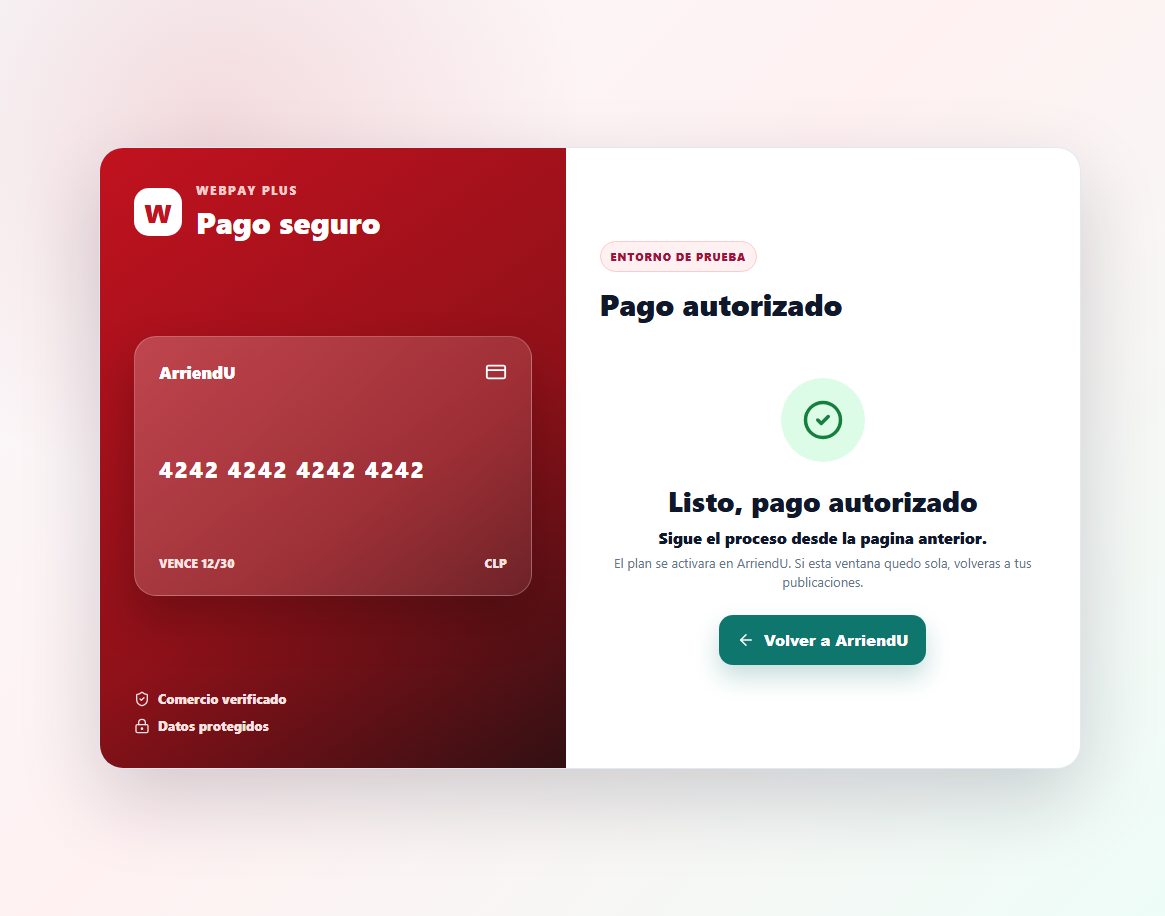
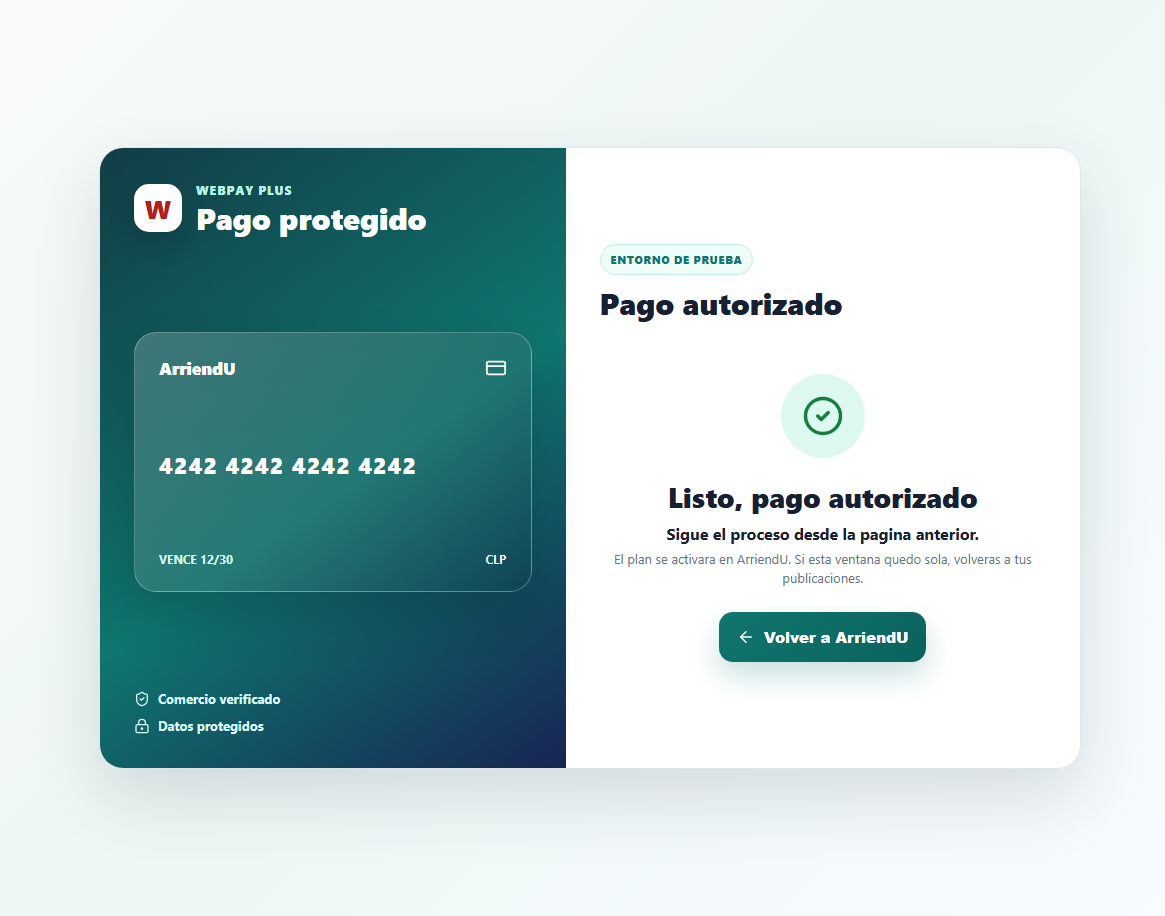
style: mejora diseño de webpay

diff --git a/frontend/src/pages/WebpaySimulado.jsx b/frontend/src/pages/WebpaySimulado.jsx
@@ -130,7 +130,7 @@ const WebpaySimulado = () => {
             <div style={styles.logoMark}>W</div>
             <div>
               <p style={styles.kicker}>WebPay Plus</p>
-              <h1 style={styles.title}>Pago seguro</h1>
+              <h1 style={styles.title}>Pago protegido</h1>
             </div>
           </div>
 
@@ -259,30 +259,30 @@ const WebpaySimulado = () => {
 const styles = {
   page: {
     minHeight: '100vh',
-    background: 'radial-gradient(circle at 18% 14%, rgba(193,18,31,0.12), transparent 30%), linear-gradient(135deg, #f8fafc 0%, #fff1f2 46%, #eefdf8 100%)',
+    background: 'linear-gradient(135deg, #f7faf9 0%, #eef7f5 48%, #f8fbff 100%)',
     display: 'flex',
     alignItems: 'center',
     justifyContent: 'center',
     padding: '28px',
-    fontFamily: "'Segoe UI', Roboto, sans-serif",
-    color: '#0f172a',
+    fontFamily: "'Inter', 'Aptos', 'Segoe UI', system-ui, -apple-system, sans-serif",
+    color: '#172033',
   },
   shell: {
     width: 'min(980px, 100%)',
     minHeight: '620px',
     display: 'grid',
     gridTemplateColumns: '0.95fr 1.05fr',
-    background: '#ffffff',
-    border: '1px solid #e2e8f0',
+    background: 'rgba(255,255,255,0.98)',
+    border: '1px solid #dbe7ea',
     borderRadius: '24px',
-    boxShadow: '0 30px 80px rgba(15, 23, 42, 0.18)',
+    boxShadow: '0 28px 70px rgba(29, 45, 57, 0.14)',
     overflow: 'hidden',
   },
   brandPanel: {
     position: 'relative',
     padding: '34px',
     color: '#ffffff',
-    background: 'linear-gradient(145deg, #c1121f 0%, #8f1119 58%, #321013 100%)',
+    background: 'linear-gradient(145deg, #123c46 0%, #0f766e 54%, #172554 100%)',
     display: 'flex',
     flexDirection: 'column',
     justifyContent: 'space-between',
@@ -298,25 +298,27 @@ const styles = {
     height: '48px',
     borderRadius: '15px',
     background: '#ffffff',
-    color: '#c1121f',
+    color: '#b91c1c',
     display: 'flex',
     alignItems: 'center',
     justifyContent: 'center',
-    fontSize: '26px',
-    fontWeight: 900,
+    fontSize: '25px',
+    fontWeight: 800,
+    boxShadow: '0 12px 26px rgba(7, 20, 26, 0.18)',
   },
   kicker: {
     margin: '0 0 4px',
-    color: '#fecaca',
+    color: '#b7f4e8',
     fontSize: '12px',
-    fontWeight: 900,
+    fontWeight: 800,
     textTransform: 'uppercase',
-    letterSpacing: '0.12em',
+    letterSpacing: '0.08em',
   },
   title: {
     margin: 0,
     fontSize: '30px',
-    fontWeight: 900,
+    fontWeight: 800,
+    lineHeight: 1.08,
   },
   previewCard: {
     position: 'relative',
@@ -324,9 +326,9 @@ const styles = {
     borderRadius: '22px',
     padding: '24px',
     minHeight: '210px',
-    background: 'linear-gradient(135deg, rgba(255,255,255,0.22), rgba(255,255,255,0.08))',
-    border: '1px solid rgba(255,255,255,0.24)',
-    boxShadow: '0 24px 46px rgba(22, 6, 8, 0.28)',
+    background: 'linear-gradient(135deg, rgba(255,255,255,0.2), rgba(5, 45, 52, 0.22))',
+    border: '1px solid rgba(255,255,255,0.28)',
+    boxShadow: '0 24px 46px rgba(7, 29, 37, 0.24)',
     display: 'flex',
     flexDirection: 'column',
     justifyContent: 'space-between',
@@ -335,21 +337,21 @@ const styles = {
     display: 'flex',
     justifyContent: 'space-between',
     alignItems: 'center',
-    fontWeight: 900,
+    fontWeight: 800,
     fontSize: '17px',
   },
   cardNumber: {
     margin: 0,
     fontSize: '22px',
-    fontWeight: 900,
-    letterSpacing: '0.08em',
+    fontWeight: 800,
+    letterSpacing: '0.06em',
   },
   cardBottom: {
     display: 'flex',
     justifyContent: 'space-between',
-    color: '#fee2e2',
+    color: '#d7fbf4',
     fontSize: '12px',
-    fontWeight: 800,
+    fontWeight: 700,
     textTransform: 'uppercase',
   },
   trustList: {
@@ -360,9 +362,9 @@ const styles = {
     display: 'inline-flex',
     alignItems: 'center',
     gap: '8px',
-    color: '#fee2e2',
+    color: '#d7fbf4',
     fontSize: '13px',
-    fontWeight: 800,
+    fontWeight: 700,
   },
   checkoutPanel: {
     padding: '34px',
@@ -380,36 +382,37 @@ const styles = {
   secureBadge: {
     display: 'inline-flex',
     width: 'fit-content',
-    border: '1px solid #fecaca',
-    background: '#fff1f2',
+    border: '1px solid #bdeee4',
+    background: '#eefdf8',
     borderRadius: '999px',
     padding: '7px 10px',
-    color: '#9f1239',
+    color: '#0f766e',
     fontSize: '11px',
-    fontWeight: 900,
+    fontWeight: 800,
     textTransform: 'uppercase',
-    letterSpacing: '0.08em',
+    letterSpacing: '0.06em',
     whiteSpace: 'nowrap',
   },
   checkoutTitle: {
     margin: '12px 0 0',
-    color: '#0f172a',
+    color: '#172033',
     fontSize: '30px',
-    fontWeight: 900,
+    fontWeight: 800,
+    lineHeight: 1.12,
   },
   summaryBox: {
-    border: '1px solid #e2e8f0',
+    border: '1px solid #dde8eb',
     borderRadius: '18px',
     padding: '8px 18px',
-    background: '#f8fafc',
+    background: '#f8fbfc',
   },
   summaryRow: {
     display: 'flex',
     justifyContent: 'space-between',
     gap: '14px',
     padding: '12px 0',
-    borderBottom: '1px solid #e2e8f0',
-    color: '#475569',
+    borderBottom: '1px solid #e3ebee',
+    color: '#566477',
     fontSize: '14px',
   },
   totalRow: {
@@ -417,9 +420,9 @@ const styles = {
     justifyContent: 'space-between',
     gap: '14px',
     padding: '15px 0 10px',
-    color: '#0f172a',
+    color: '#172033',
     fontSize: '15px',
-    fontWeight: 900,
+    fontWeight: 800,
   },
   formBox: {
     display: 'flex',
@@ -437,19 +440,19 @@ const styles = {
     gap: '6px',
   },
   label: {
-    color: '#475569',
+    color: '#566477',
     fontSize: '11px',
-    fontWeight: 900,
+    fontWeight: 800,
     textTransform: 'uppercase',
-    letterSpacing: '0.08em',
+    letterSpacing: '0.06em',
   },
   input: {
     width: '100%',
     boxSizing: 'border-box',
-    border: '1.5px solid #dbe4ee',
+    border: '1.5px solid #d8e3e7',
     borderRadius: '13px',
     background: '#ffffff',
-    color: '#0f172a',
+    color: '#172033',
     fontSize: '15px',
     padding: '13px 14px',
     outline: 'none',
@@ -464,12 +467,12 @@ const styles = {
     border: 'none',
     borderRadius: '14px',
     padding: '14px 18px',
-    background: '#0f766e',
+    background: 'linear-gradient(135deg, #0f766e 0%, #0b625d 100%)',
     color: '#ffffff',
     fontSize: '15px',
-    fontWeight: 900,
+    fontWeight: 800,
     cursor: 'pointer',
-    boxShadow: '0 12px 24px rgba(15,118,110,0.24)',
+    boxShadow: '0 14px 28px rgba(15,118,110,0.22)',
     display: 'inline-flex',
     alignItems: 'center',
     justifyContent: 'center',
@@ -491,19 +494,19 @@ const styles = {
     display: 'flex',
     alignItems: 'center',
     justifyContent: 'center',
-    background: '#dcfce7',
+    background: '#ddf8ee',
     color: '#15803d',
   },
   approvedTitle: {
     margin: '0 0 8px',
     fontSize: '28px',
-    fontWeight: 900,
+    fontWeight: 800,
   },
   approvedText: {
     margin: '0 0 6px',
-    color: '#0f172a',
+    color: '#172033',
     fontSize: '16px',
-    fontWeight: 800,
+    fontWeight: 700,
   },
   approvedHint: {
     maxWidth: '420px',
